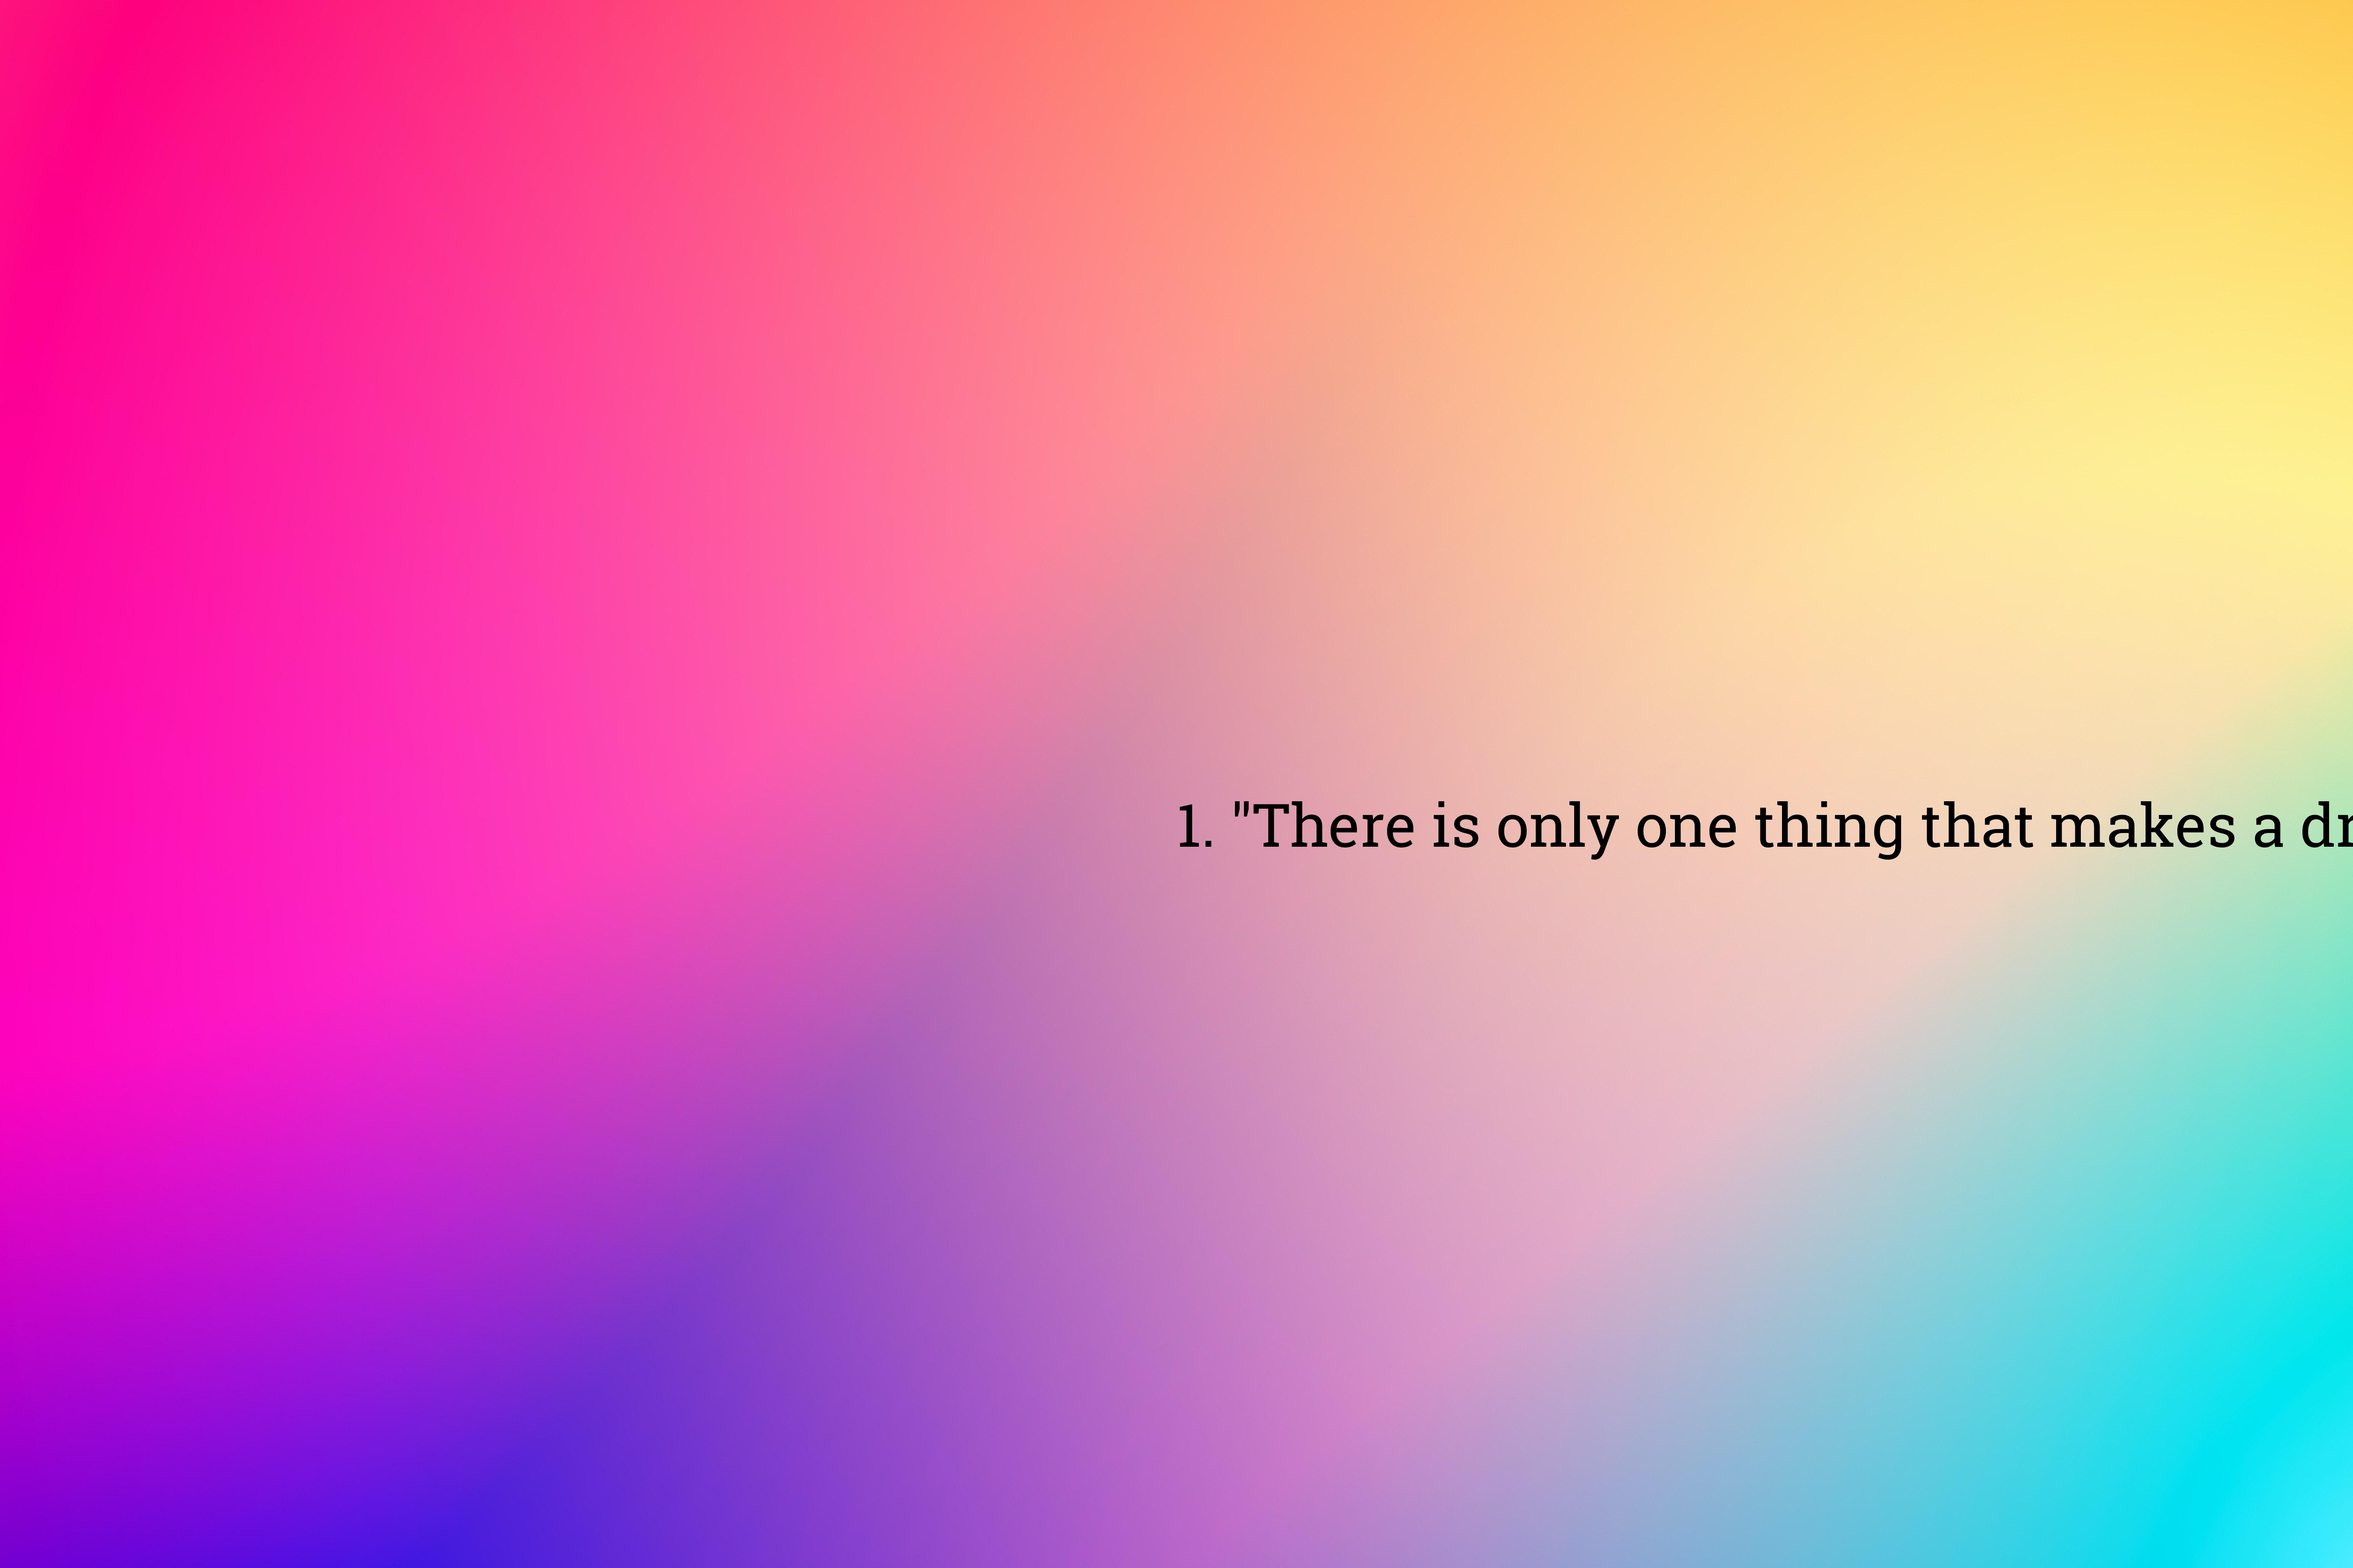
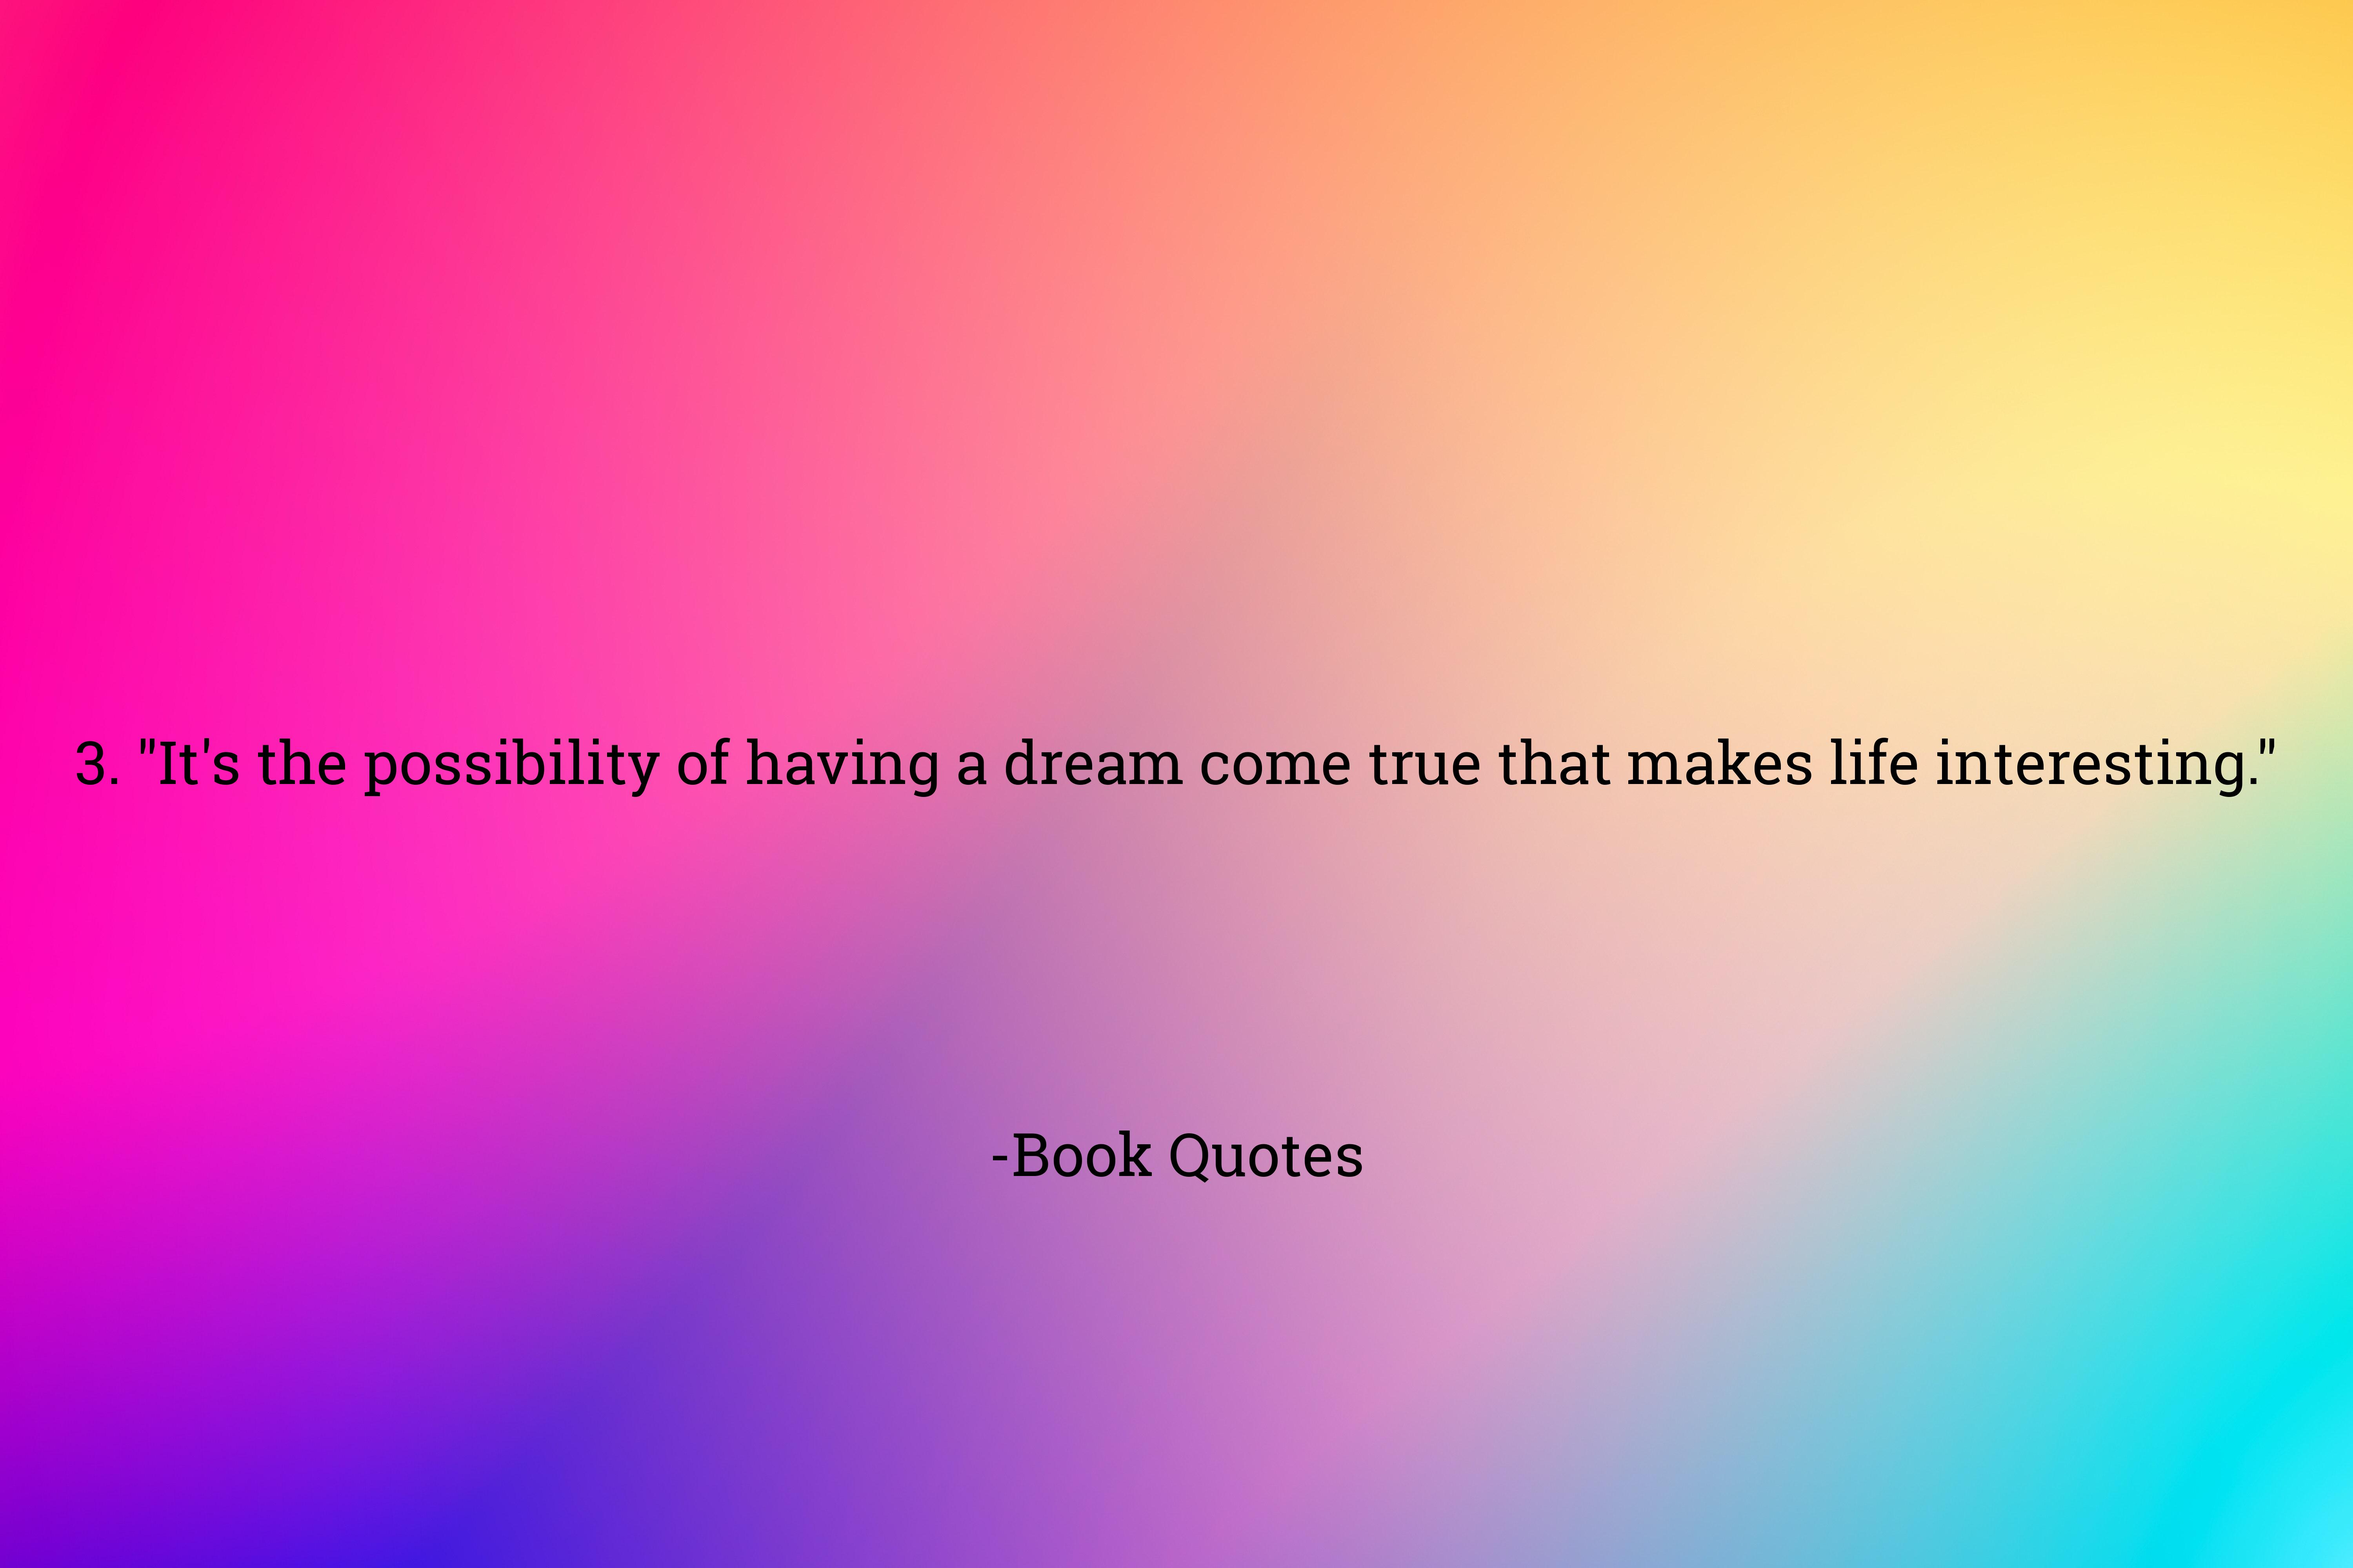
Author name Generated

Changed region(s): [[0.0312, 0.4688, 1.0, 0.5625], [0.4052, 0.7188, 0.5922, 0.75]]

diff --git a/bot.py b/bot.py
@@ -33,7 +33,7 @@ mentions = api.mentions_timeline(since_id = last_seen_id,tweet_mode='extended')
 for mention in reversed(mentions):
     print(str(mention.id)+' --- '+mention.full_text)
     last_seen_id = mention.id
-    store_last_seen_id(last_seen_id,FILE_NAME)
+    # store_last_seen_id(last_seen_id,FILE_NAME)
     if '#quoteit' in mention.full_text.lower():
         print('Quoted')
         original_tweet_id = mention.in_reply_to_status_id
@@ -42,7 +42,7 @@ for mention in reversed(mentions):
         # fetching the full_text attribute
         full_text = status.full_text 
         quote = re.sub(r"http\S+", "", full_text)
-        author = str(status.author.name)
+        author = str("-" + status.author.name)
         
         print("Quote : " + quote +"\n"+"Author: "+author)
         
@@ -62,4 +62,5 @@ for mention in reversed(mentions):
         # quote_image.text((15,15+offset), author, (216, 233, 237), font=quote_font)
         W, H = (6000,4000)
         quote_image.text((W/2,H/2),quote_text,font = quote_font,fill="#000000",anchor='ms')
+        quote_image.text((W/2,3*H/4),author,font = quote_font,fill="#000000",anchor='ms')
         bg_img.save("quotedbybot.jpg")
